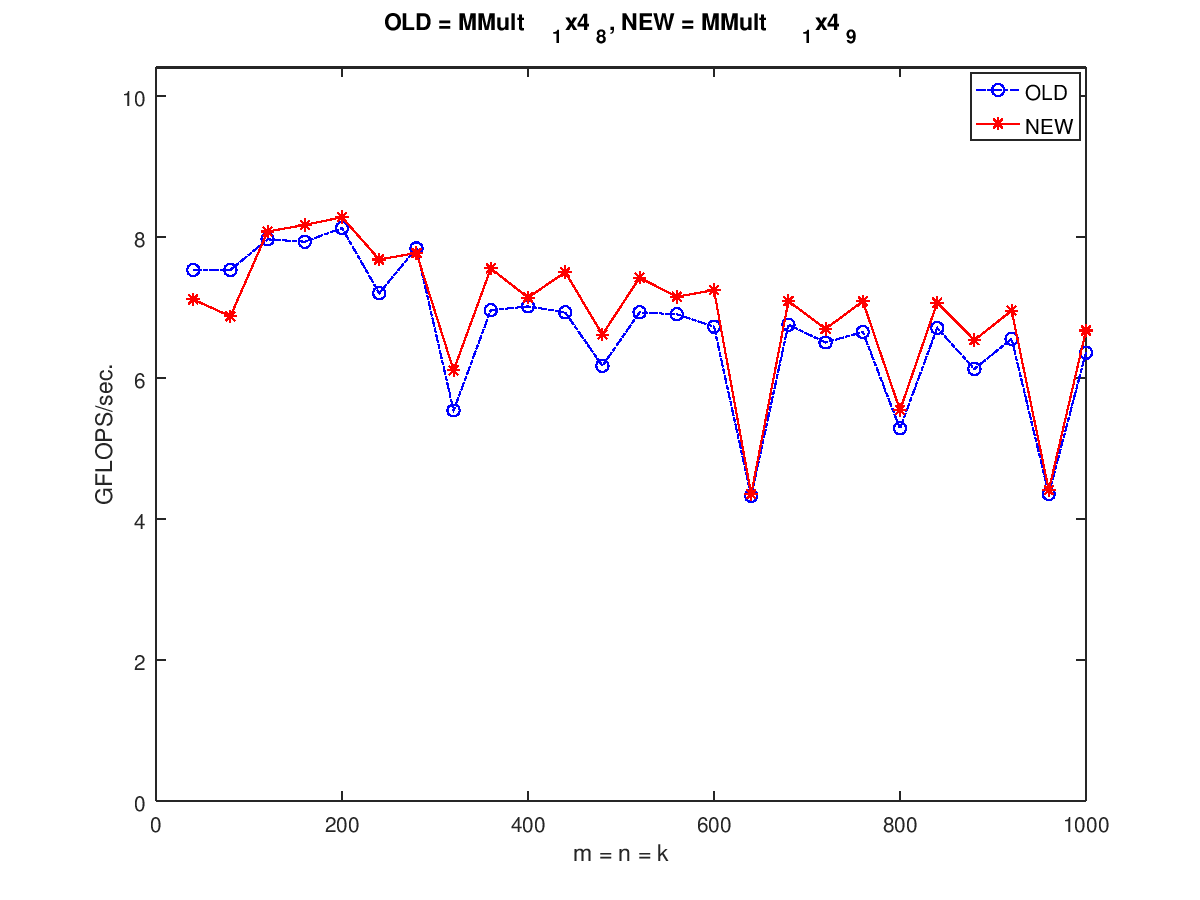
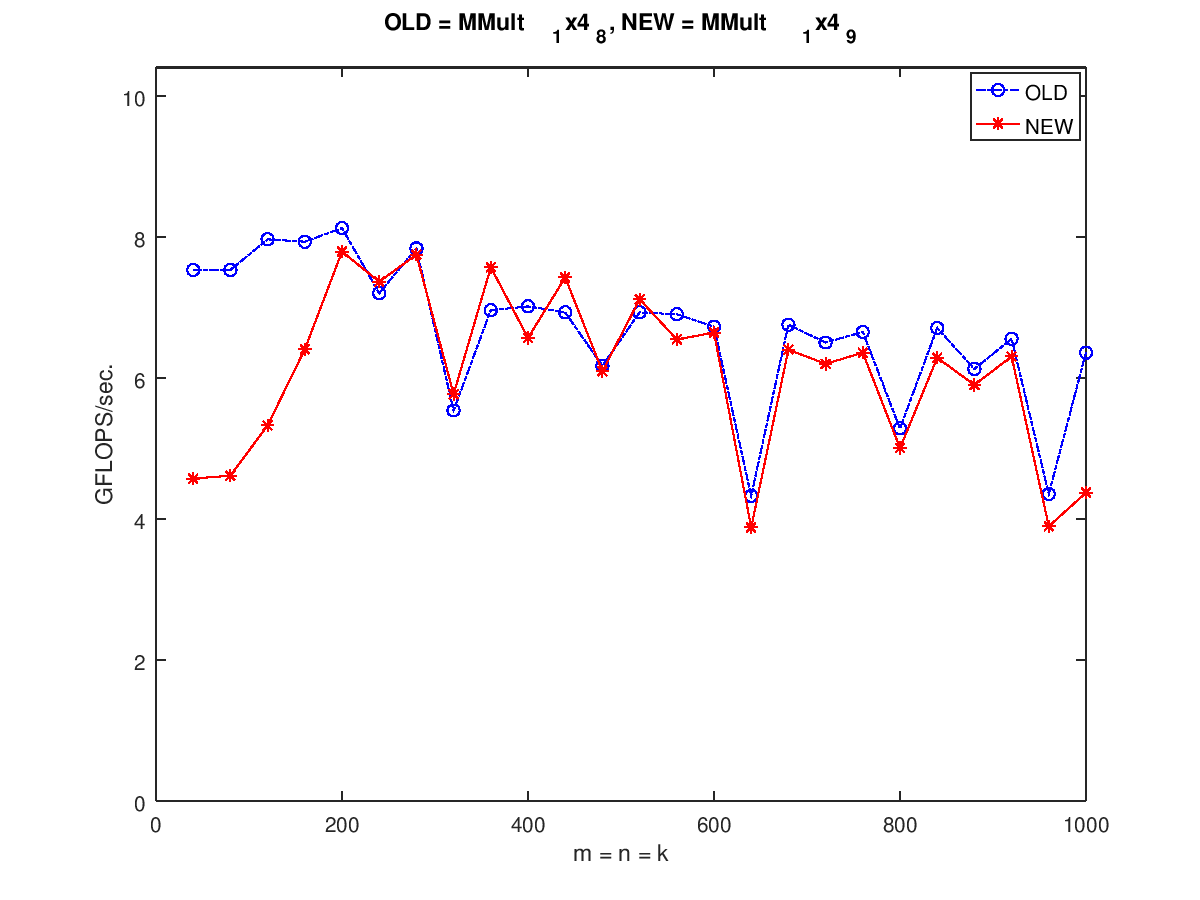
4x4_3

diff --git a/src/HowToOptimizeGemm/MMult_4x4_3.c b/src/HowToOptimizeGemm/MMult_4x4_3.c
@@ -1,0 +1,70 @@
+/* Create macros so that the matrices are stored in column-major order */
+
+#define A(i,j) a[ (j)*lda + (i) ]
+#define B(i,j) b[ (j)*ldb + (i) ]
+#define C(i,j) c[ (j)*ldc + (i) ]
+
+/* Routine for computing C = A * B + C */
+
+void AddDot( int, double *, int, double *, double * );
+void AddDot4x4(int k, double *a, int lda, double *b, int ldb, double *c, int ldc);
+void MY_MMult( int m, int n, int k, double *a, int lda, 
+                                    double *b, int ldb,
+                                    double *c, int ldc )
+{
+  int i, j;
+
+  for ( j=0; j<n; j+=4 ){        /* Loop over the columns of C , count 4 per time*/
+    for ( i=0; i<m; i+=4 ){        /* Loop over the rows of C */
+      /* Update the C( i,j ) with the inner product of the ith row of A
+	 and the jth column of B */
+
+      AddDot4x4(k, &A(i, 0), lda, &B(0, j), ldb, &C(i,j), ldc);
+
+    }
+  }
+}
+
+
+/* Create macro to let X( i ) equal the ith element of x */
+
+#define X(i) x[ (i)*incx ]
+
+void AddDot( int k, double *x, int incx,  double *y, double *gamma )
+{
+  /* compute gamma := x' * y + gamma with vectors x and y of length n.
+
+     Here x starts at location x with increment (stride) incx and y starts at location y and has (implicit) stride of 1.
+  */
+ 
+  int p;
+
+  for ( p=0; p<k; p++ ){
+    *gamma += X( p ) * y[ p ];     // notice: column first
+  }
+}
+
+void AddDot4x4(int k, double *a, int lda, double *b, int ldb, double *c, int ldc){
+  // First row
+  AddDot(k, &A(0, 0), lda, &B(0, 0), &C(0, 0));
+  AddDot(k, &A(0, 0), lda, &B(0, 1), &C(0, 1));
+  AddDot(k, &A(0, 0), lda, &B(0, 2), &C(0, 2));
+  AddDot(k, &A(0, 0), lda, &B(0, 3), &C(0, 3));
+
+  AddDot(k, &A(1, 0), lda, &B(0, 0), &C(1, 0));
+  AddDot(k, &A(1, 0), lda, &B(0, 1), &C(1, 1));
+  AddDot(k, &A(1, 0), lda, &B(0, 2), &C(1, 2));
+  AddDot(k, &A(1, 0), lda, &B(0, 3), &C(1, 3));
+
+
+  AddDot(k, &A(2, 0), lda, &B(0, 0), &C(2, 0));
+  AddDot(k, &A(2, 0), lda, &B(0, 1), &C(2, 1));
+  AddDot(k, &A(2, 0), lda, &B(0, 2), &C(2, 2));
+  AddDot(k, &A(2, 0), lda, &B(0, 3), &C(2, 3));
+
+
+  AddDot(k, &A(3, 0), lda, &B(0, 0), &C(3, 0));
+  AddDot(k, &A(3, 0), lda, &B(0, 1), &C(3, 1));
+  AddDot(k, &A(3, 0), lda, &B(0, 2), &C(3, 2));
+  AddDot(k, &A(3, 0), lda, &B(0, 3), &C(3, 3));
+}

diff --git a/src/HowToOptimizeGemm/MMult_4x4_4.c b/src/HowToOptimizeGemm/MMult_4x4_4.c
@@ -1,0 +1,70 @@
+/* Create macros so that the matrices are stored in column-major order */
+
+#define A(i,j) a[ (j)*lda + (i) ]
+#define B(i,j) b[ (j)*ldb + (i) ]
+#define C(i,j) c[ (j)*ldc + (i) ]
+
+/* Routine for computing C = A * B + C */
+
+void AddDot( int, double *, int, double *, double * );
+void AddDot4x4(int k, double *a, int lda, double *b, int ldb, double *c, int ldc);
+void MY_MMult( int m, int n, int k, double *a, int lda, 
+                                    double *b, int ldb,
+                                    double *c, int ldc )
+{
+  int i, j;
+
+  for ( j=0; j<n; j+=4 ){        /* Loop over the columns of C , count 4 per time*/
+    for ( i=0; i<m; i+=4 ){        /* Loop over the rows of C */
+      /* Update the C( i,j ) with the inner product of the ith row of A
+	 and the jth column of B */
+
+      AddDot4x4(k, &A(i, 0), lda, &B(0, j), ldb, &C(i,j), ldc);
+
+    }
+  }
+}
+
+
+/* Create macro to let X( i ) equal the ith element of x */
+
+#define X(i) x[ (i)*incx ]
+
+void AddDot( int k, double *x, int incx,  double *y, double *gamma )
+{
+  /* compute gamma := x' * y + gamma with vectors x and y of length n.
+
+     Here x starts at location x with increment (stride) incx and y starts at location y and has (implicit) stride of 1.
+  */
+ 
+  int p;
+
+  for ( p=0; p<k; p++ ){
+    *gamma += X( p ) * y[ p ];     // notice: column first
+  }
+}
+
+void AddDot4x4(int k, double *a, int lda, double *b, int ldb, double *c, int ldc){
+  // First row
+  AddDot(k, &A(0, 0), lda, &B(0, 0), &C(0, 0));
+  AddDot(k, &A(0, 0), lda, &B(0, 1), &C(0, 1));
+  AddDot(k, &A(0, 0), lda, &B(0, 2), &C(0, 2));
+  AddDot(k, &A(0, 0), lda, &B(0, 3), &C(0, 3));
+
+  AddDot(k, &A(1, 0), lda, &B(0, 0), &C(1, 0));
+  AddDot(k, &A(1, 0), lda, &B(0, 1), &C(1, 1));
+  AddDot(k, &A(1, 0), lda, &B(0, 2), &C(1, 2));
+  AddDot(k, &A(1, 0), lda, &B(0, 3), &C(1, 3));
+
+
+  AddDot(k, &A(2, 0), lda, &B(0, 0), &C(2, 0));
+  AddDot(k, &A(2, 0), lda, &B(0, 1), &C(2, 1));
+  AddDot(k, &A(2, 0), lda, &B(0, 2), &C(2, 2));
+  AddDot(k, &A(2, 0), lda, &B(0, 3), &C(2, 3));
+
+
+  AddDot(k, &A(3, 0), lda, &B(0, 0), &C(3, 0));
+  AddDot(k, &A(3, 0), lda, &B(0, 1), &C(3, 1));
+  AddDot(k, &A(3, 0), lda, &B(0, 2), &C(3, 2));
+  AddDot(k, &A(3, 0), lda, &B(0, 3), &C(3, 3));
+}

diff --git a/src/HowToOptimizeGemm/output_old.m b/src/HowToOptimizeGemm/output_old.m
@@ -1,28 +1,28 @@
-version = 'MMult_1x4_8';
+version = 'MMult2';
 MY_MMult = [
-40 7.529412e+00 7.935868e+00 
-80 7.529412e+00 1.111873e+01 
-120 7.963134e+00 1.361372e+01 
-160 7.930300e+00 1.742788e+01 
-200 8.121827e+00 2.019904e+01 
-240 7.200000e+00 2.413949e+01 
-280 7.834404e+00 2.483831e+01 
-320 5.537006e+00 2.631482e+01 
-360 6.958389e+00 2.783843e+01 
-400 7.012930e+00 3.174555e+01 
-440 6.927781e+00 3.310811e+01 
-480 6.169879e+00 3.697014e+01 
-520 6.927868e+00 3.585473e+01 
-560 6.901110e+00 3.565111e+01 
-600 6.726876e+00 3.703606e+01 
-640 4.327308e+00 3.997728e+01 
-680 6.752612e+00 4.311620e+01 
-720 6.500483e+00 4.372437e+01 
-760 6.650345e+00 4.483276e+01 
-800 5.282980e+00 4.335492e+01 
-840 6.706883e+00 4.827041e+01 
-880 6.125866e+00 4.997787e+01 
-920 6.553785e+00 4.942920e+01 
-960 4.353352e+00 5.043082e+01 
-1000 6.358189e+00 5.124851e+01 
+40 2.909091e+00 0.000000e+00 
+80 2.560000e+00 0.000000e+00 
+120 2.188727e+00 0.000000e+00 
+160 2.136115e+00 0.000000e+00 
+200 2.189381e+00 0.000000e+00 
+240 2.095498e+00 0.000000e+00 
+280 2.123325e+00 0.000000e+00 
+320 1.862930e+00 0.000000e+00 
+360 2.092197e+00 0.000000e+00 
+400 2.031166e+00 0.000000e+00 
+440 2.079611e+00 0.000000e+00 
+480 1.991375e+00 0.000000e+00 
+520 2.041362e+00 0.000000e+00 
+560 2.015760e+00 0.000000e+00 
+600 2.028702e+00 0.000000e+00 
+640 1.438372e+00 0.000000e+00 
+680 2.000579e+00 0.000000e+00 
+720 1.993399e+00 0.000000e+00 
+760 1.996484e+00 0.000000e+00 
+800 1.867908e+00 0.000000e+00 
+840 1.991322e+00 0.000000e+00 
+880 1.962013e+00 0.000000e+00 
+920 1.985821e+00 0.000000e+00 
+960 1.540802e+00 0.000000e+00 
+1000 1.402713e+00 0.000000e+00 
 ];

diff --git a/src/HowToOptimizeGemm/output_MMult_1x4_9.m b/src/HowToOptimizeGemm/output_MMult_1x4_9.m
@@ -1,28 +1,28 @@
 version = 'MMult_1x4_9';
 MY_MMult = [
-40 7.111111e+00 1.068453e+01 
-80 6.872483e+00 1.782656e+01 
-120 8.074766e+00 3.079047e+01 
-160 8.167498e+00 3.231885e+01 
-200 8.277289e+00 3.883019e+01 
-240 7.677867e+00 4.048185e+01 
-280 7.770619e+00 5.042329e+01 
-320 6.104891e+00 5.680531e+01 
-360 7.550736e+00 6.318721e+01 
-400 7.137679e+00 6.182444e+01 
-440 7.497932e+00 6.952001e+01 
-480 6.613563e+00 6.764150e+01 
-520 7.420535e+00 6.156548e+01 
-560 7.149470e+00 6.651961e+01 
-600 7.244311e+00 6.801874e+01 
-640 4.350829e+00 7.987682e+01 
-680 7.086271e+00 7.745367e+01 
-720 6.694971e+00 7.852717e+01 
-760 7.084657e+00 8.823015e+01 
-800 5.542175e+00 8.277753e+01 
-840 7.066179e+00 9.036391e+01 
-880 6.533987e+00 9.752906e+01 
-920 6.953968e+00 9.074465e+01 
-960 4.408460e+00 8.508252e+01 
-1000 6.671092e+00 1.025143e+02 
+40 4.571429e+00 9.920290e+00 
+80 4.612613e+00 1.686970e+01 
+120 5.325116e+00 2.332174e+01 
+160 6.405004e+00 2.601939e+01 
+200 7.789679e+00 3.371622e+01 
+240 7.362983e+00 3.607594e+01 
+280 7.745942e+00 3.902018e+01 
+320 5.767491e+00 4.418587e+01 
+360 7.567269e+00 4.548436e+01 
+400 6.566460e+00 4.605081e+01 
+440 7.422795e+00 4.911745e+01 
+480 6.092887e+00 5.782060e+01 
+520 7.113450e+00 5.385754e+01 
+560 6.544045e+00 5.842500e+01 
+600 6.640739e+00 6.193393e+01 
+640 3.878185e+00 6.109347e+01 
+680 6.399349e+00 6.605340e+01 
+720 6.198022e+00 6.603627e+01 
+760 6.356398e+00 6.546521e+01 
+800 5.004032e+00 6.806946e+01 
+840 6.284669e+00 7.377044e+01 
+880 5.899705e+00 7.354342e+01 
+920 6.302869e+00 7.449796e+01 
+960 3.894342e+00 7.988074e+01 
+1000 4.371871e+00 7.545219e+01 
 ];

diff --git a/src/HowToOptimizeGemm/output_MMult2.m b/src/HowToOptimizeGemm/output_MMult2.m
@@ -1,28 +1,28 @@
 version = 'MMult2';
 MY_MMult = [
 40 2.909091e+00 0.000000e+00 
-80 2.547264e+00 0.000000e+00 
-120 2.236893e+00 0.000000e+00 
-160 2.182787e+00 0.000000e+00 
-200 2.190281e+00 0.000000e+00 
-240 2.125461e+00 0.000000e+00 
-280 2.116671e+00 0.000000e+00 
-320 1.865369e+00 0.000000e+00 
-360 2.106508e+00 0.000000e+00 
-400 2.037665e+00 0.000000e+00 
-440 2.097715e+00 0.000000e+00 
-480 1.988135e+00 0.000000e+00 
-520 2.034568e+00 0.000000e+00 
-560 1.882101e+00 0.000000e+00 
-600 2.020760e+00 0.000000e+00 
-640 1.443624e+00 0.000000e+00 
-680 2.149617e+00 0.000000e+00 
-720 2.122379e+00 0.000000e+00 
-760 2.142616e+00 0.000000e+00 
-800 1.900488e+00 0.000000e+00 
-840 2.112074e+00 0.000000e+00 
-880 2.092485e+00 0.000000e+00 
-920 2.103832e+00 0.000000e+00 
-960 1.632994e+00 0.000000e+00 
-1000 1.506600e+00 0.000000e+00 
+80 2.560000e+00 0.000000e+00 
+120 2.188727e+00 0.000000e+00 
+160 2.136115e+00 0.000000e+00 
+200 2.189381e+00 0.000000e+00 
+240 2.095498e+00 0.000000e+00 
+280 2.123325e+00 0.000000e+00 
+320 1.862930e+00 0.000000e+00 
+360 2.092197e+00 0.000000e+00 
+400 2.031166e+00 0.000000e+00 
+440 2.079611e+00 0.000000e+00 
+480 1.991375e+00 0.000000e+00 
+520 2.041362e+00 0.000000e+00 
+560 2.015760e+00 0.000000e+00 
+600 2.028702e+00 0.000000e+00 
+640 1.438372e+00 0.000000e+00 
+680 2.000579e+00 0.000000e+00 
+720 1.993399e+00 0.000000e+00 
+760 1.996484e+00 0.000000e+00 
+800 1.867908e+00 0.000000e+00 
+840 1.991322e+00 0.000000e+00 
+880 1.962013e+00 0.000000e+00 
+920 1.985821e+00 0.000000e+00 
+960 1.540802e+00 0.000000e+00 
+1000 1.402713e+00 0.000000e+00 
 ];

diff --git a/src/HowToOptimizeGemm/MMult_1x4_9.c b/src/HowToOptimizeGemm/MMult_1x4_9.c
@@ -60,13 +60,13 @@ void AddDot1x4(int k, double* a, int lda, double *b, int ldb, double * c, int ld
     c_02_reg += a_0p_reg * *(bp2_pntr + 1);
     c_03_reg += a_0p_reg * *(bp3_pntr + 1);
     
-    a_0p_reg = A(0, p);
+    a_0p_reg = A(0, p+2);
     c_00_reg += a_0p_reg * *(bp0_pntr + 2);
     c_01_reg += a_0p_reg * *(bp1_pntr + 2);
     c_02_reg += a_0p_reg * *(bp2_pntr + 2);
     c_03_reg += a_0p_reg * *(bp3_pntr + 2);
     
-    a_0p_reg = A(0, p);
+    a_0p_reg = A(0, p+3);
     c_00_reg += a_0p_reg * *(bp0_pntr + 3);
     c_01_reg += a_0p_reg * *(bp1_pntr + 3);
     c_02_reg += a_0p_reg * *(bp2_pntr + 3);
